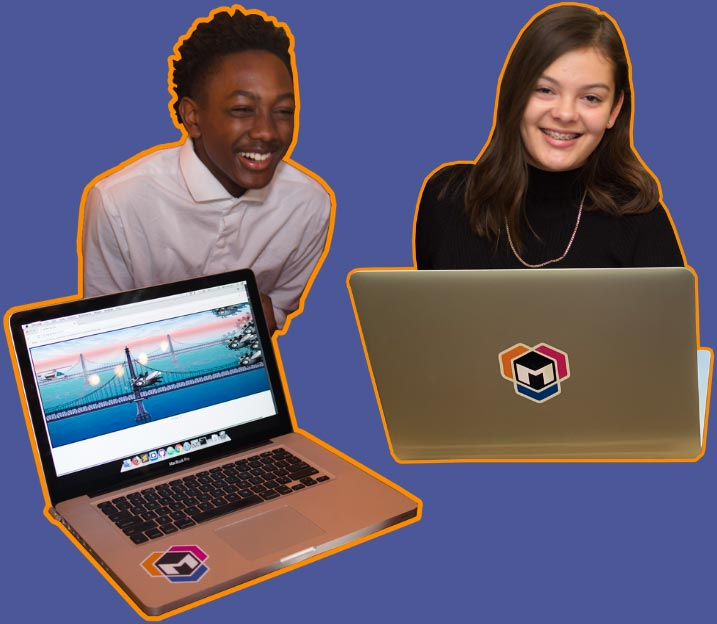
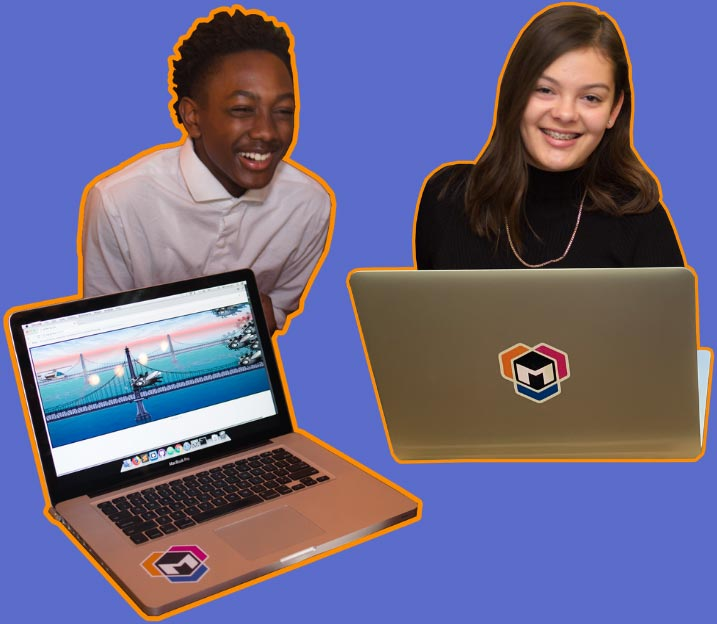
Change background color, update stats, update subscribe svg

diff --git a/components/index/Stats.tsx b/components/index/Stats.tsx
@@ -77,31 +77,31 @@ const Stats: React.FC<{}> = () => {
   return (
     <section className={classes.section}>
       <div className={classes.line}>
-        <div className={clsx(classes.value, classes.color1)}>85</div>
-        <div className={classes.copy}>classes taught</div>
         <img
           src={require("../../public/images/stats/classes-taught.svg")}
           className={classes.icon}
           alt="Graduation cap on top of a text editor window"
         />
+        <div className={clsx(classes.value, classes.color1)}>88</div>
+        <div className={classes.copy}>classes taught</div>
       </div>
       <div className={classes.line}>
-        <div className={clsx(classes.value, classes.color2)}>4,000+</div>
-        <div className={classes.copy}>students served</div>
         <img
           src={require("../../public/images/stats/students.svg")}
           className={classes.icon}
           alt="Three students, two holding laptops with Mission Bit stickers"
         />
+        <div className={clsx(classes.value, classes.color2)}>4,000+</div>
+        <div className={classes.copy}>students served</div>
       </div>
       <div className={classes.line}>
-        <div className={clsx(classes.value, classes.color3)}>14</div>
-        <div className={classes.copy}>school sites</div>
         <img
           src={require("../../public/images/stats/mission-high-school.svg")}
           className={classes.icon}
           alt="Mission High School"
         />
+        <div className={clsx(classes.value, classes.color3)}>14</div>
+        <div className={classes.copy}>school sites</div>
       </div>
     </section>
   );

diff --git a/components/SubscribeImage.tsx b/components/SubscribeImage.tsx
@@ -16,13 +16,19 @@ const SubscribeImage: React.FC<{ className?: string }> = ({ className }) => (
         <use xlinkHref="#paths" fill="white" />
       </mask>
     </defs>
-    <image
-      href={require("../public/images/subscribe/subscribe.jpg")}
-      x="0"
-      y="0"
-      height="100%"
-      width="100%"
-    />
+    <foreignObject x="0" y="0" height="100%" width="100%" mask="url(#mask)">
+      <picture>
+        <source
+          type="image/webp"
+          srcSet={require("../public/images/subscribe/subscribe.jpg?webp")}
+        />
+        <img
+          src={require("../public/images/subscribe/subscribe.jpg")}
+          width="100%"
+          height="100%"
+        />
+      </picture>
+    </foreignObject>
     <use
       xlinkHref="#paths"
       stroke="#FB8B00"

diff --git a/components/index/MissionStatement.tsx b/components/index/MissionStatement.tsx
@@ -9,7 +9,7 @@ import { brand } from "../../src/colors";
 const useStyles = makeStyles((theme) => ({
   root: {
     padding: theme.spacing(0, 2),
-    backgroundColor: brand.gray,
+    backgroundColor: brand.indigo,
     color: theme.palette.common.white,
     textAlign: "center",
     marginBottom: "3rem",

diff --git a/components/index/Students.tsx b/components/index/Students.tsx
@@ -154,7 +154,7 @@ const themeOverrides = (theme: Theme): ThemeOptions => ({
   palette: {
     type: "dark",
     background: {
-      paper: brand.royal,
+      paper: brand.indigo,
     },
     primary: theme.palette.primary,
   },

diff --git a/components/Subscribe.tsx b/components/Subscribe.tsx
@@ -53,7 +53,7 @@ const themeOverrides = (theme: Theme): ThemeOptions => ({
   palette: {
     type: "dark",
     background: {
-      paper: brand.royal,
+      paper: brand.indigo,
     },
     primary: theme.palette.primary,
   },

diff --git a/src/colors.tsx b/src/colors.tsx
@@ -2,7 +2,6 @@ export const brand = {
   orange: "#FB8B00",
   blue: "#0169C9",
   violet: "#DC139C",
-  royal: "#4B5798",
   ultra: "#FF5CCC",
-  gray: "#7E7E7E",
+  indigo: "#5B6CCA",
 };
